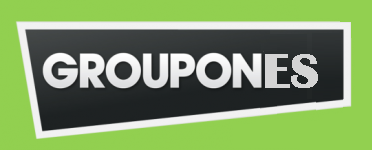
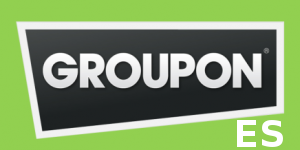
Cambio imagen

Changed region(s): [[0.03, 0.1333, 0.96, 0.9867]]

diff --git a/style/style.css b/style/style.css
@@ -12,7 +12,7 @@ background-color: #92d050;
 
 #header {
 position: relative;
-background: url("imagen.png") no-repeat scroll 0 0 #92CC47;
+background: url("imagen.png") no-repeat scroll 0 0 #92d050;
 top: 20%;
 left: 0%;
 width: 900px;
